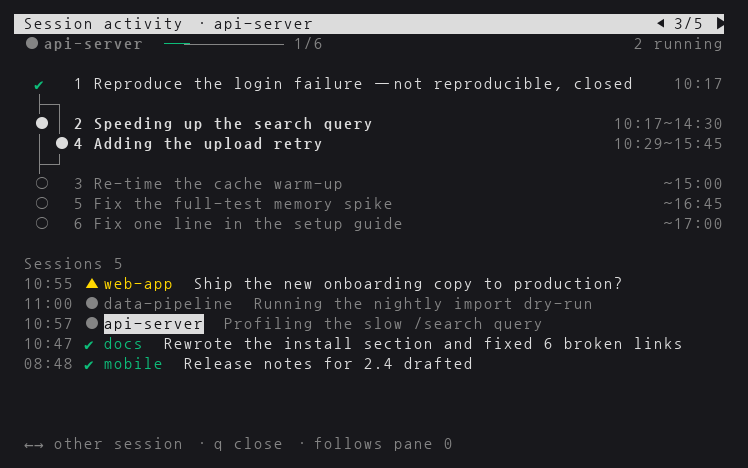
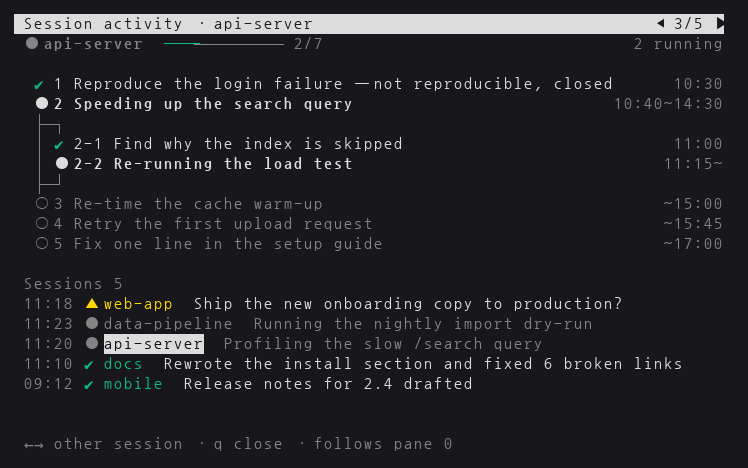
feat(feed): order the rail by title numbers and branch sub-steps (1-1)
The rail now follows the numbers sessions put in task titles (1, 1-1,
1-2, 2 ...). Work that comes up inside a step and is numbered under it
branches off that step like a git branch (├─┐ ... ├─┘) and joins back
before the next one; deeper levels nest. Titles without a number keep
the task id; a date such as 2026-11-26 is not read as a number. When
the pane is short, fully finished leading steps fold into one line.

diff --git a/pane-tools/bin/feed.py b/pane-tools/bin/feed.py
@@ -3,7 +3,8 @@
 
 작업 목록은 Claude Code 가 세션마다 남기는 ~/.claude/tasks/<sessionId>/<번호>.json({subject, activeForm, status}),
 세션 상태는 데몬이 작업마다 남기는 ~/.claude/jobs/<id>/state.json · timeline.jsonl({at, state, detail, text})을 읽는다. 쓰는 건 없다.
-레일: 끝난 것 ✔ → 진행 중인 것 ● (둘 이상이면 옆으로 갈라져 나란히, 대기 앞에서 합친다) → 대기 ○ (2026-11-27 사용자 — 줄글 피드를 바꿨다).
+레일: 제목 앞 번호 순(1, 1-1, 1-2, 2 …)으로 끝난 것 ✔ · 진행 중 ● · 대기 ○. 작업 중 끼어든 일은 세션이 '1-1. …' 처럼 번호를 달아
+넣고, 레일은 그것을 부모에서 갈라진 갈래(├─┐ … ├─┘)로 들여 그린다(2026-11-27 사용자 — 줄글 피드를 바꿨다).
 세션 줄의 소식은 사용자가 보낸 말(text 가 빈 줄)과 작업 중간 경과를 뺀 마지막 사건 — 포켓몬 모드는 같은 사건들(feed)로 일한 날을 센다.
 ←→ 다른 세션 · Enter 0번 패널 세션으로 · q 닫기. `python3 feed.py --selftest` 로 점검한다.
 """
@@ -23,6 +24,7 @@ from memo import WATCH, cw, focus_reporting, getkey, pane_title, put, title_name
 JOBS = os.path.expanduser('~/.claude/jobs')
 TASKS = os.path.expanduser('~/.claude/tasks')  # Claude Code 의 작업 목록 — 세션마다 <sessionId>/<번호>.json
 PIDS = os.path.expanduser('~/.claude/sessions')  # 떠 있는 Claude 프로세스마다 <pid>.json({sessionId, procStart, …})
+LABEL = re.compile(r'^\s*(\d{1,3}(?:-\d{1,3})*)[.)]?\s+')  # 제목 앞 번호 '2. ' · '1-1 ' — 한 칸 세 자리까지(날짜 '2026-11-26' 은 아니다)
 DUE = re.compile(r'\s*\(~(\d{1,2}:\d\d)(?:,\s*([^)]*))?\)')  # 제목에 적은 예상 시각 '(~14:30)' · '(~17:00, 사용자 확인)'
 # claude agents 의 상태 묶음 — needs 가 맨 위, 끝난 것은 아래
 ORDER = {'blocked': 0, 'needs_input': 0, 'failed': 1, 'working': 2, 'done': 3}
@@ -111,8 +113,9 @@ def awake(folder=PIDS, proc='/proc'):
 
 
 def tasks(sid, folder=TASKS):
-    """세션의 작업 목록 [{id, text, state, at, due}] — 번호 순, 목록이 없으면 []. 진행 중이면 activeForm('…하는 중'),
-    아니면 제목에서 앞 번호('2. ')와 예상 시각('(~14:30)')을 떼고 예상 시각은 due 로. at 은 파일을 고친 시각(상태가 바뀐 때)."""
+    """세션의 작업 목록 [{id, text, state, at, due}] — 번호 순, 목록이 없으면 []. id 는 제목 앞 번호('1-1')이고 없으면 작업 번호.
+    진행 중이면 activeForm('…하는 중'), 아니면 제목에서 앞 번호와 예상 시각('(~14:30)')을 떼고 예상 시각은 due 로.
+    at 은 파일을 고친 시각(상태가 바뀐 때)."""
     out = []
     for f in glob.glob(os.path.join(folder, sid, '*.json')) if re.fullmatch(r'[\w-]+', sid or '') else []:
         try:
@@ -124,45 +127,59 @@ def tasks(sid, folder=TASKS):
         st = d.get('status')
         if st not in ('pending', 'in_progress', 'completed'):
             continue
-        subj = re.sub(r'^\s*\d+[.)]\s*', '', d.get('subject') or '')
+        subj = d.get('subject') or ''
+        n = LABEL.match(subj)
+        subj = subj[n.end():] if n else subj
         m = DUE.search(subj)
         if m:
             subj = subj[:m.start()] + (f' ({m[2]})' if m[2] else '') + subj[m.end():]
         text = d.get('activeForm') if st == 'in_progress' and d.get('activeForm') else subj
-        out.append({'id': str(d.get('id', '')), 'text': text.strip(), 'state': st, 'at': at, 'due': m[1] if m else ''})
-    out.sort(key=lambda t: (len(t['id']), t['id']))  # 숫자 번호 순(10 이 2 뒤)
+        out.append({'id': n[1] if n else str(d.get('id', '')), 'text': text.strip(), 'state': st, 'at': at, 'due': m[1] if m else ''})
+    out.sort(key=lambda t: [int(x) if x.isdigit() else 10 ** 9 for x in t['id'].split('-')])  # 1, 1-1, 1-2, 2, 10 순
     return out
 
 
+MARKS = {'completed': '✔', 'in_progress': '●', 'pending': '○'}
+
+
 def rail(ts):
-    """작업 목록 → 레일 줄 [(선, 작업 또는 None)] — 끝난 것 ✔, 진행 중인 것 ●, 대기 ○ 순. 진행 중이 둘 이상이면
-    git log --graph 처럼 끝난 것 아래에서 갈라져(├─┐) 나란히 가다 대기 앞에서 합친다(├─┘). 칸 사이는 한 칸 띄운다."""
-    done, run, todo = ([t for t in ts if t['state'] == s] for s in ('completed', 'in_progress', 'pending'))
-    k = len(run)
-    gw = 2 * k - 1 if k > 1 else 1
-    rows = [('✔'.ljust(gw), t) for t in done]
-    if k > 1:
-        if done:
-            rows.append(('├' + '─┬' * (k - 2) + '─┐', None))
-        for j, t in enumerate(run):  # 앞 갈래는 대기로 이어질 때, 뒤 갈래는 위에서 갈라져 왔을 때 선을 긋는다
-            lanes = ['│' if (i < j and todo) or (i > j and done) else ' ' for i in range(k)]
-            lanes[j] = '●'
-            rows.append((' '.join(lanes), t))
-        if todo:
-            rows.append(('├' + '─┴' * (k - 2) + '─┘', None))
-    else:
-        rows += [('●', t) for t in run]
-    return rows + [('○'.ljust(gw), t) for t in todo]
+    """작업 목록(번호 순) → 레일 줄 [(선, 작업 또는 None)]. 하위 작업(1-1)은 git 갈래처럼 부모 아래에서 갈라져(├─┐)
+    한 칸 들여 가고, 뒤에 이어지는 작업이 있으면 다시 합친다(├─┘). 부모가 없는 번호는 맨 위 단계로 둔다."""
+    nodes, top = {}, []
+    for t in ts:  # 번호 순이라 부모가 먼저 온다
+        node = nodes[t['id']] = (t, [])
+        parent = nodes.get(t['id'].rpartition('-')[0])
+        (parent[1] if parent else top).append(node)
+    rows = []
+
+    def walk(level, prefix, after):
+        for i, (t, kids) in enumerate(level):
+            more = i < len(level) - 1 or after  # 이 작업(과 그 하위) 뒤로 이어지는 줄이 있나
+            rows.append((prefix + MARKS[t['state']], t))
+            if kids:
+                rows.append((prefix + ('├─┐' if more else '└─┐'), None))
+                walk(kids, prefix + ('│ ' if more else '  '), more)
+                if more:
+                    rows.append((prefix + '├─┘', None))
+    walk(top, '', False)
+    return rows
 
 
 def fit_rail(rows, budget):
-    """레일이 칸보다 길면 끝난 것을 '완료 N개' 한 줄로 접고, 그래도 길면 뒤를 '… N개 더' 로 자른다."""
+    """레일이 칸보다 길면 앞에서부터 하위까지 다 끝난 맨 위 단계 작업들을 '완료 N개' 한 줄로 접고,
+    그래도 길면 뒤를 '… N줄 더' 로 자른다."""
     if len(rows) <= budget:
         return rows
-    done = [t for _, t in rows if t and t['state'] == 'completed']
+    starts = [i for i, (ln, t) in enumerate(rows) if t and len(ln) == 1] + [len(rows)]  # 맨 위 단계 작업 줄
+    cut = 0
+    for a, b in zip(starts, starts[1:]):
+        if any(t and t['state'] != 'completed' for _, t in rows[a:b]):
+            break
+        cut = b
+    done = [t for _, t in rows[:cut] if t]
     if len(done) > 1:
-        rows = [rows[0][:1] + ({'id': '', 'text': L(f'완료 {len(done)}개', f'{len(done)} done'), 'state': 'completed',
-                                'at': max(t['at'] for t in done), 'due': ''},)] + rows[len(done):]
+        rows = [('✔', {'id': '', 'text': L(f'완료 {len(done)}개', f'{len(done)} done'), 'state': 'completed',
+                       'at': max(t['at'] for t in done), 'due': ''})] + rows[cut:]
     if len(rows) > budget:
         rows = rows[:max(0, budget - 1)] + [('…', {'id': '', 'text': L(f'{len(rows) - budget + 1}줄 더', f'{len(rows) - budget + 1} more'),
                                                    'state': 'pending', 'at': 0, 'due': ''})]
@@ -419,29 +436,34 @@ def selftest():
             f.write('{')
         assert awake(pd) == {'S1'}, awake(pd)
     assert awake(d, proc=d) is None  # /proc 이 없는 곳(macOS)
-    # 작업 목록: 번호 순(10 이 2 뒤) · 앞 번호와 예상 시각은 떼고 due 로 · 진행 중은 activeForm · 모르는 상태와 이상한 id 는 뺀다
+    # 작업 목록: 제목 앞 번호 순(1, 1-1, 2, 10) · 번호가 없으면 작업 번호 · 날짜는 번호로 보지 않는다 · 예상 시각은 떼고 due 로
+    # · 진행 중은 activeForm · 모르는 상태와 이상한 id 는 뺀다
     td = tempfile.mkdtemp()
     os.makedirs(os.path.join(td, 'S1'))
     for i, st, subj, act in ((10, 'pending', '10. 줄 고치기 (~17:00, 사용자 확인)', ''), (1, 'completed', '1. 재현 안 됨, 닫음', '재현하는 중'),
-                             (2, 'in_progress', '2. 판정 빠르게 (~14:30)', '판정 빠르게 하는 중'), (3, 'deleted', '3. 지움', '')):
+                             (2, 'in_progress', '2. 판정 빠르게 (~14:30)', '판정 빠르게 하는 중'), (3, 'deleted', '3. 지움', ''),
+                             (7, 'completed', '1-1 트러블 슈팅', ''), (8, 'pending', '2026-11-26 업무보고서 쓰기', '')):
         with open(os.path.join(td, 'S1', f'{i}.json'), 'w') as f:
             json.dump({'id': str(i), 'subject': subj, 'activeForm': act, 'status': st, 'blocks': [], 'blockedBy': []}, f)
     ts = tasks('S1', td)
-    assert [(t['id'], t['text'], t['due']) for t in ts] == [('1', '재현 안 됨, 닫음', ''), ('2', '판정 빠르게 하는 중', '14:30'),
-                                                           ('10', '줄 고치기 (사용자 확인)', '17:00')], ts
+    assert [(t['id'], t['text'], t['due']) for t in ts] == [('1', '재현 안 됨, 닫음', ''), ('1-1', '트러블 슈팅', ''), ('2', '판정 빠르게 하는 중', '14:30'),
+                                                           ('8', '2026-11-26 업무보고서 쓰기', ''), ('10', '줄 고치기 (사용자 확인)', '17:00')], ts
     assert tasks('', td) == tasks('../S1', td) == tasks('없음', td) == []
-    assert task_when(ts[2]) == '~17:00' and task_when(ts[1]).endswith('~14:30') and task_when(dict(ts[0], at=0)) == ''
-    # 레일: 끝난 것 → 진행 중(둘 이상이면 갈라져 나란히) → 대기, 위·아래가 없으면 갈래 선도 없다
+    assert task_when(ts[4]) == '~17:00' and task_when(ts[2]).endswith('~14:30') and task_when(dict(ts[0], at=0)) == ''
+    # 레일: 번호 순, 하위 작업은 부모 아래에서 갈라져 들여 가다 뒤에 작업이 있으면 합친다 — 사용자 예시(2026-11-27) 그대로
     T = lambda i, st: {'id': str(i), 'text': '', 'state': st, 'at': 0, 'due': ''}  # noqa: E731
-    r = rail([T(1, 'completed'), T(2, 'in_progress'), T(3, 'pending'), T(4, 'in_progress')])
-    assert [ln for ln, _ in r] == ['✔  ', '├─┐', '● │', '│ ●', '├─┘', '○  '] and [t['id'] for _, t in r if t] == ['1', '2', '4', '3']
-    assert [ln for ln, _ in rail([T(i, 'in_progress') for i in (1, 2, 3)])] == ['●    ', '  ●  ', '    ●']
-    assert [ln for ln, _ in rail([T(1, 'completed'), T(2, 'in_progress'), T(3, 'in_progress')])] == ['✔  ', '├─┐', '● │', '  ●']
-    assert [ln for ln, _ in rail([T(1, 'completed'), T(2, 'in_progress'), T(3, 'pending')])] == ['✔', '●', '○'] and rail([]) == []
-    # 넘치면 끝난 것을 한 줄로 접고, 그래도 넘치면 뒤를 자른다
-    long = rail([T(i, 'completed') for i in range(1, 6)] + [T(6, 'in_progress'), T(7, 'pending'), T(8, 'pending')])
-    assert fit_rail(long, 8) == long and [t['text'] for _, t in fit_rail(long, 4)] == [L('완료 5개', '5 done'), '', '', '']
-    assert [ln for ln, _ in fit_rail(long, 3)] == ['✔', '●', '…']
+    r = rail([T(1, 'in_progress'), T('1-1', 'completed'), T('1-2', 'in_progress'), T(2, 'pending'), T(3, 'pending')])
+    assert [ln for ln, _ in r] == ['●', '├─┐', '│ ✔', '│ ●', '├─┘', '○', '○'] and [t['id'] for _, t in r if t] == ['1', '1-1', '1-2', '2', '3']
+    assert [ln for ln, _ in rail([T(1, 'completed'), T(2, 'in_progress'), T('2-1', 'in_progress')])] == ['✔', '●', '└─┐', '  ●']  # 뒤가 없으면 합치지 않는다
+    assert [ln for ln, _ in rail([T(1, 'pending'), T('1-1', 'pending'), T('1-1-1', 'pending'), T(2, 'pending')])] == \
+        ['○', '├─┐', '│ ○', '│ ├─┐', '│ │ ○', '│ ├─┘', '├─┘', '○']
+    assert [ln for ln, _ in rail([T('1-1', 'pending'), T(2, 'pending')])] == ['○', '○'] and rail([]) == []  # 부모 없는 번호는 맨 위
+    # 넘치면 앞에서부터 하위까지 다 끝난 맨 위 작업들을 한 줄로 접고, 그래도 넘치면 뒤를 자른다
+    long = rail([T(1, 'completed'), T('1-1', 'completed'), T(2, 'completed'), T(3, 'in_progress'), T('3-1', 'pending'), T(4, 'pending')])
+    f = fit_rail(long, 7)
+    assert fit_rail(long, 10) == long and [ln for ln, _ in f] == ['✔', '●', '├─┐', '│ ○', '├─┘', '○'] and f[0][1]['text'] == L('완료 3개', '3 done')
+    assert [ln for ln, _ in fit_rail(long, 4)] == ['✔', '●', '├─┐', '…']
+    assert [ln for ln, _ in fit_rail(rail([T(1, 'in_progress'), T('1-1', 'completed'), T(2, 'pending')]), 2)] == ['●', '…']  # 1 이 안 끝났으면 접지 않는다
     # 묶음: 답을 받아 일하는 중이면 state.json 이 blocked 여도 working · busy 면 working · tempo blocked 면 needs
     assert group({'state': 'blocked', 'tempo': 'blocked'}, rows[3]) == 'working'
     assert group({'state': 'blocked', 'tempo': 'blocked'}, rows[4]) == 'blocked'

diff --git a/README.md b/README.md
@@ -11,7 +11,7 @@ Every screen switches between English and Korean with the hub's `[ 한/EN ]` but
 | Plugin / mode | What it does |
 |---|---|
 | `pane-tools` | `/mods` opens the **hub** — even while the session is busy. Gauges, a partner Pokémon with a speech bubble, the awake sessions, and one button per mode. |
-| ├ `feed` | **Session activity** — the session open in pane 0, drawn as a rail of its task list like a git graph: done ✔, in progress ● (side by side when several run at once, joining before the next waiting one) and waiting ○, each with its finish or start time and the `(~14:30)` target from its title. Below it, every running `claude agents` session (the same list as the hub's session column) on one line — asking ▲, working ●, done ✔ — with its latest news (its last progress line while working), so you see where this session is and how the others are doing. ←→ shows another session, Enter goes back to following pane 0, `q` closes. A session without a task list shows only its line. It reads `~/.claude/tasks/<session>/*.json`, `~/.claude/jobs/*` and `~/.claude/sessions/*.json` (which sessions are running — no `claude agents` call), and restarts itself when `feed.py` changes. |
+| ├ `feed` | **Session activity** — the session open in pane 0, drawn as a rail of its task list in the order of the numbers in the titles: done ✔, in progress ● and waiting ○, each with its finish or start time and the `(~14:30)` target from its title. Work that came up in the middle of a step and is numbered under it (`2-1`, `2-2`) branches off that step like a git branch and joins back before the next one. Below it, every running `claude agents` session (the same list as the hub's session column) on one line — asking ▲, working ●, done ✔ — with its latest news (its last progress line while working), so you see where this session is and how the others are doing. ←→ shows another session, Enter goes back to following pane 0, `q` closes. A session without a task list shows only its line. It reads `~/.claude/tasks/<session>/*.json`, `~/.claude/jobs/*` and `~/.claude/sessions/*.json` (which sessions are running — no `claude agents` call), and restarts itself when `feed.py` changes. |
 | ├ `memo` | A memo for the session. **send** (`Ctrl+S`) queues it until the session is idle, then submits it; `Esc`/`Ctrl+Q` closes. One memo per session. If a sent memo waits too long it tells you to run `/reload-plugins` in that session. |
 | ├ `tetris` | Tetris with hold (`c`), a ghost piece, `Space` hard drop, `p` pause and `r` to restart after game over. In a tmux pane shorter than 22 rows it grows the pane to 24 rows while you play and puts it back afterwards; the half-height board is only the last resort. |
 | └ `pokemon` | Catch, evolve and battle with the tokens you spend — a fan-made game, see the [notice](#pokémon--unofficial-fan-project). |
